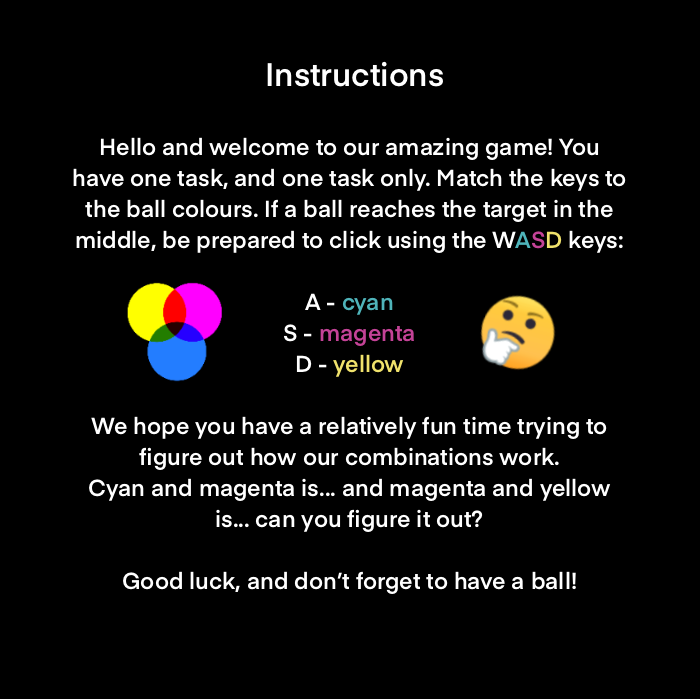
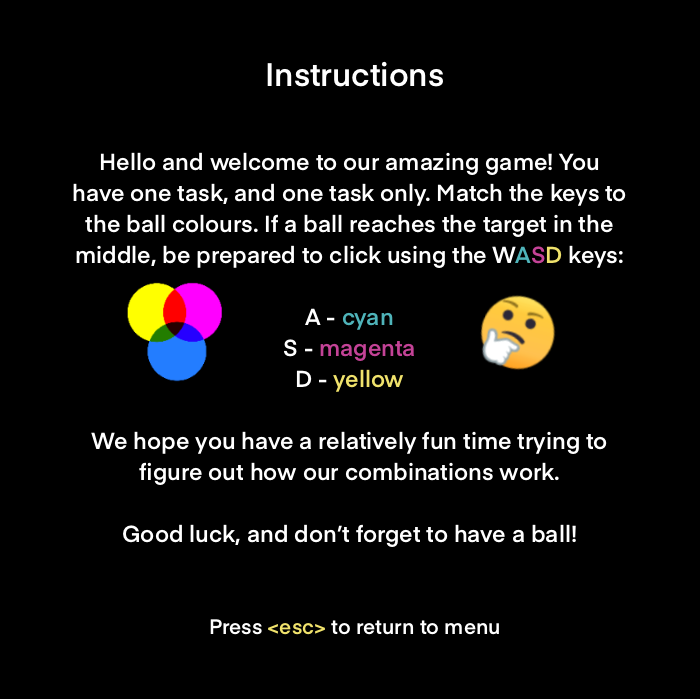
Added key indicators to menu, instructions and credits, as well as a press enter indicator

diff --git a/src/org/academiadecodigo/bootcamp/game/GameLayout.java b/src/org/academiadecodigo/bootcamp/game/GameLayout.java
@@ -18,6 +18,8 @@ public class GameLayout {
     private Ellipse target;
     private Picture supportKeys;
     private Picture title;
+    private Picture enter;
+    private Picture menuSupportKeys;
     private Text textScore;
     private Text scoreValue;
 
@@ -52,6 +54,11 @@ public class GameLayout {
         title.draw();
     }
 
+    public void drawEnter(){
+        enter = new Picture(280 + xMargin, 580, "resources/img/pressenter.png");
+        enter.draw();
+    }
+
     public void drawMenuOptions(MenuOption optionName){
         int indexMenuOption = MenuOption.valueOf(optionName.toString()).ordinal();
         int spacing = indexMenuOption * 50;
@@ -73,11 +80,15 @@ public class GameLayout {
             drawMenuOptions(menuOption);
         }
         drawMarker();
+        drawEnter();
+        drawMenuSupportKeys();
     }
 
     public void closeMenu(){
         title.delete();
         marker.delete();
+        enter.delete();
+        menuSupportKeys.delete();
         for(Text menuOption : menuOptions){
             menuOption.delete();
         }
@@ -106,6 +117,11 @@ public class GameLayout {
     public void drawSupportKeys() {
         supportKeys = new Picture(500, 600, "resources/img/asd.png");
         supportKeys.draw();
+    }
+
+    public void drawMenuSupportKeys() {
+        menuSupportKeys = new Picture(280 + xMargin, 450, "resources/img/asd.png");
+        menuSupportKeys.draw();
     }
 
     public void drawTextScore(GameLayout gameLayout) {

diff --git a/src/org/academiadecodigo/bootcamp/game/Game.java b/src/org/academiadecodigo/bootcamp/game/Game.java
@@ -105,7 +105,7 @@ public class Game {
         stopGame();
         setGameOn(false);
 
-        gameOver = new Picture(130, 130, "resources/img/gameover.png");
+        gameOver = new Picture(10, 10, "resources/img/gameover.png");
         gameOver.draw();
 
 
@@ -117,6 +117,10 @@ public class Game {
 
     public Picture getGameOver() {
         return gameOver;
+    }
+
+    public void closeGameOver() {
+        gameOver.delete();
     }
 
     /* public void startBalls() {

diff --git a/src/org/academiadecodigo/bootcamp/menu/KeyboardOptions.java b/src/org/academiadecodigo/bootcamp/menu/KeyboardOptions.java
@@ -214,7 +214,8 @@ public class KeyboardOptions implements KeyboardHandler, Runnable{
                     gameLayout.closeGame();
                     game.stopGame();
                     game.setGameOn(false);
-                    game.getGameOver().delete();
+                    game.getGameOver();
+                    game.closeGameOver();
                     gameLayout.drawMenu();
 
                 }else if( gamePage == "Credits"){
